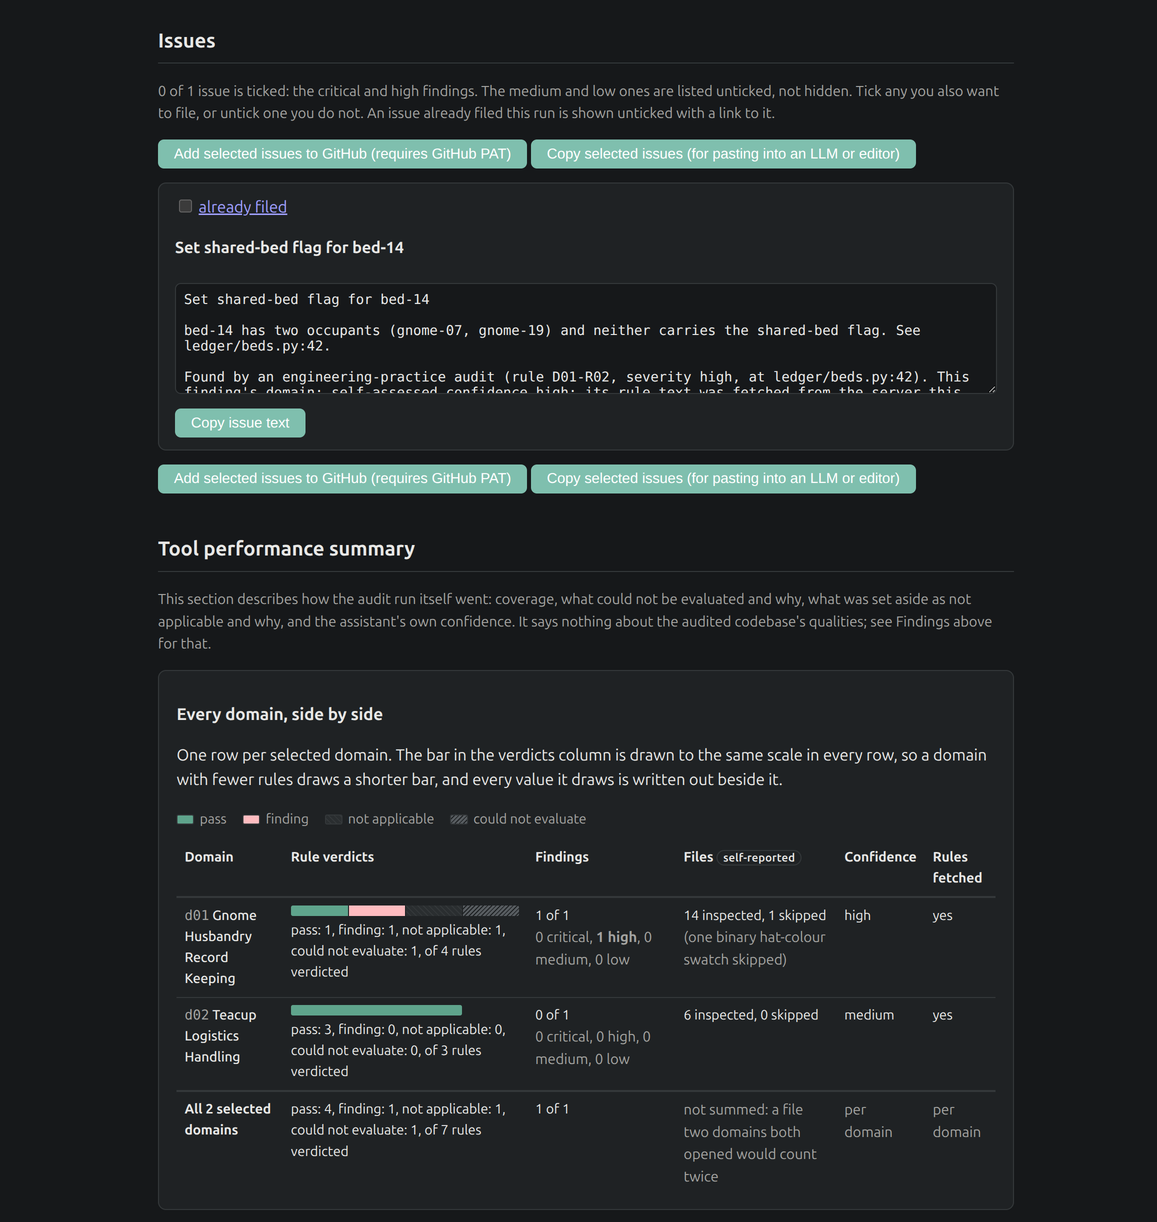
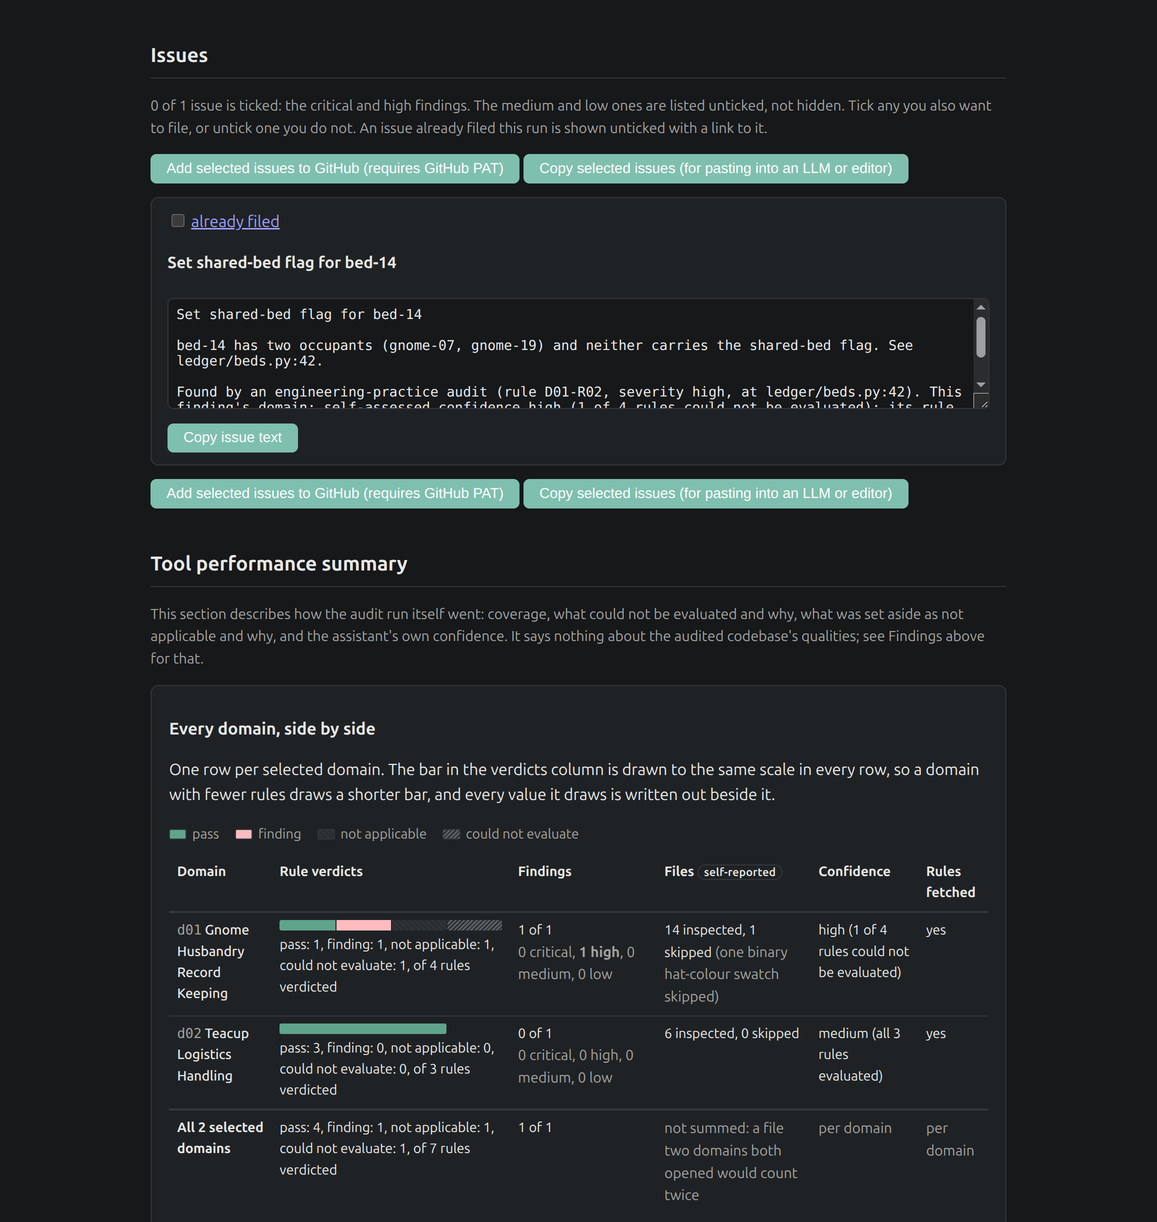
docs(images): rebuild every report screenshot and the social card
Closes #225.

All four report-derived images predated the report they are pictures of. The
Confidence column in issues-feedback-*.png read a bare "high" and "medium",
which is the exact column #211 changed, and report-*.png carried the old
"self-assessed confidence high; its rule text was fetched" without the base
clause. The social card embeds report-light.png and so was stale twice over.

config-page-*.png are untouched: the configuration page did not change, and
recapturing an image nothing altered would add churn and no truth.

The xfail markers added with the currency guard are removed, which is the
mechanism working: the guard now passes on committed timestamps, and a strict
xfail that passes fails, so the markers could not have been left behind.

docs/social-card/README.md now carries the capture method that actually
reproduces these files: exact viewports per image, isolated browser context,
device pixel ratio 2 downscaled by half, and the scrollbar suppression without
which a scrollbar appears down the right edge and steals 15px of content width.
That method previously existed only in a commit message, which is the root of
why this went stale twice rather than once.

diff --git a/tests/test_social_card_currency.py b/tests/test_social_card_currency.py
@@ -78,23 +78,6 @@ def _last_commit_epoch(path: str) -> int | None:
     return int(stamp) if stamp.isdigit() else None
 
 
-# Both links are currently broken (issue #225), so both are marked strict
-# xfail rather than deleted, skipped or asserted loosely. Strict is the whole
-# point: the moment the images are rebuilt these start passing, and a strict
-# xfail that passes FAILS, which forces the marker off and leaves a live guard
-# behind. Debt that clears itself, instead of a TODO nobody revisits.
-_STALE = pytest.mark.xfail(
-    strict=True,
-    reason=(
-        "issue #225: docs/images/report-light.png predates the report it "
-        "captures, and docs/images/social-card.png predates the capture it "
-        "embeds. Rebuild both per docs/social-card/README.md, then remove this "
-        "marker; strict=True means leaving it on after the fix fails the suite."
-    ),
-)
-
-
-@_STALE
 def test_the_report_capture_is_not_older_than_the_report_it_captures() -> None:
     # The first link. docs/images/report-light.png is a picture of
     # docs/demo/report.html, so a renderer change that is not re-captured
@@ -122,7 +105,6 @@ def test_the_report_capture_is_not_older_than_the_report_it_captures() -> None:
     )
 
 
-@_STALE
 def test_social_card_is_not_older_than_the_report_capture_it_embeds() -> None:
     if _is_shallow_clone():
         pytest.skip(

diff --git a/docs/social-card/README.md b/docs/social-card/README.md
@@ -44,4 +44,30 @@ uv run python scripts/generate-demo-report.py
 python3 -m http.server 8931 --bind 127.0.0.1   # from docs/demo/
 ```
 
-Capture at 1172px wide, device pixel ratio 1, in both colour schemes.
+Then, for each of the four report images, in an **isolated browser context** (a draft
+cookie otherwise renders a returning-visitor view as the first-run experience):
+
+| image | viewport | scrolled to |
+|---|---|---|
+| `report-light.png`, `report-dark.png` | 1157x1672 | top |
+| `issues-feedback-light.png`, `issues-feedback-dark.png` | 1157x1222 | the Issues heading, minus 40px |
+
+Emulate the colour scheme explicitly for each, capture at **device pixel ratio 2**, then
+downscale by half with Lanczos. The extra pixels are for text crispness; the committed
+files are device pixel ratio 1 at the sizes above.
+
+**Suppress the page scrollbar before capturing**, or it appears down the right edge and
+steals 15px of content width:
+
+```js
+document.head.insertAdjacentHTML('beforeend',
+  '<style>html{scrollbar-width:none!important}html::-webkit-scrollbar{display:none!important}</style>')
+```
+
+The 1157 figure is the content width, not the window width. An earlier round captured at a
+1172 window where a real scrollbar took the other 15px, which is why the committed files
+have always been 1157 wide; setting the viewport to 1157 with the scrollbar suppressed
+reaches the same layout in one step.
+
+`tests/test_social_card_currency.py` fails the suite if either of these images falls behind
+what it is a picture of, so none of this has to be remembered.
